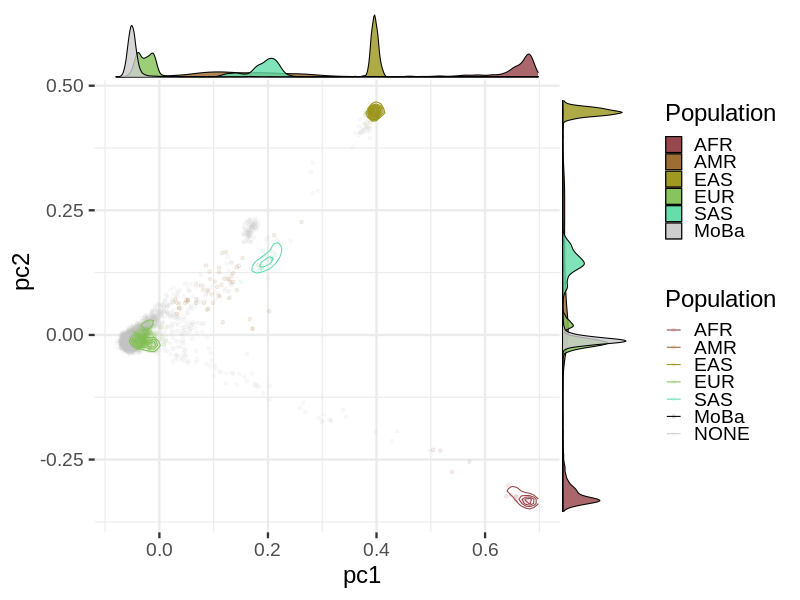
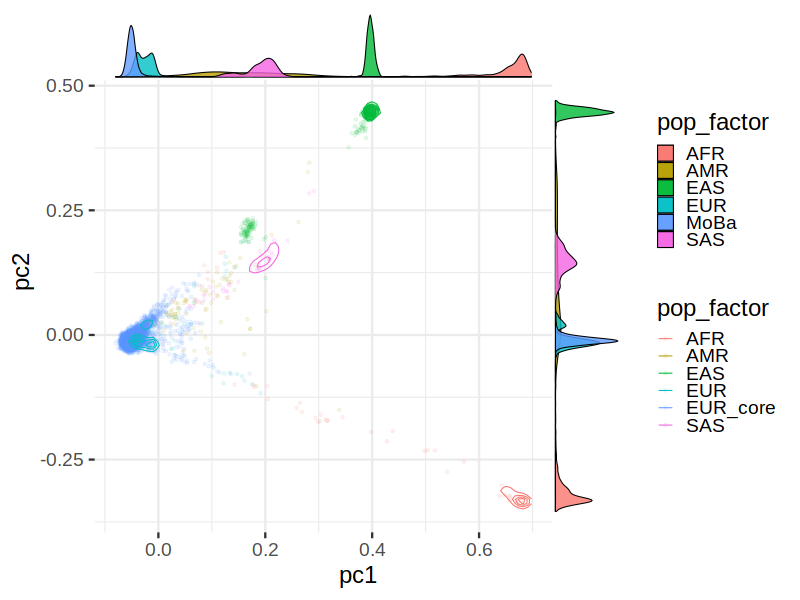
debug

diff --git a/qc-pipeline/docs/snp012/pca_1kg_moba.md b/qc-pipeline/docs/snp012/pca_1kg_moba.md
@@ -12,3 +12,5 @@
 | - | -  |  -  |  -  |  -  |  -  |
 | MoBa  | 43 | 82 | 171 | 17347 | 39 |
 ![](plot/moba_pop_plot.png)
+### pc2 vs. pc1
+![](plot/pc1_pc2_1kg_inferred.png)
